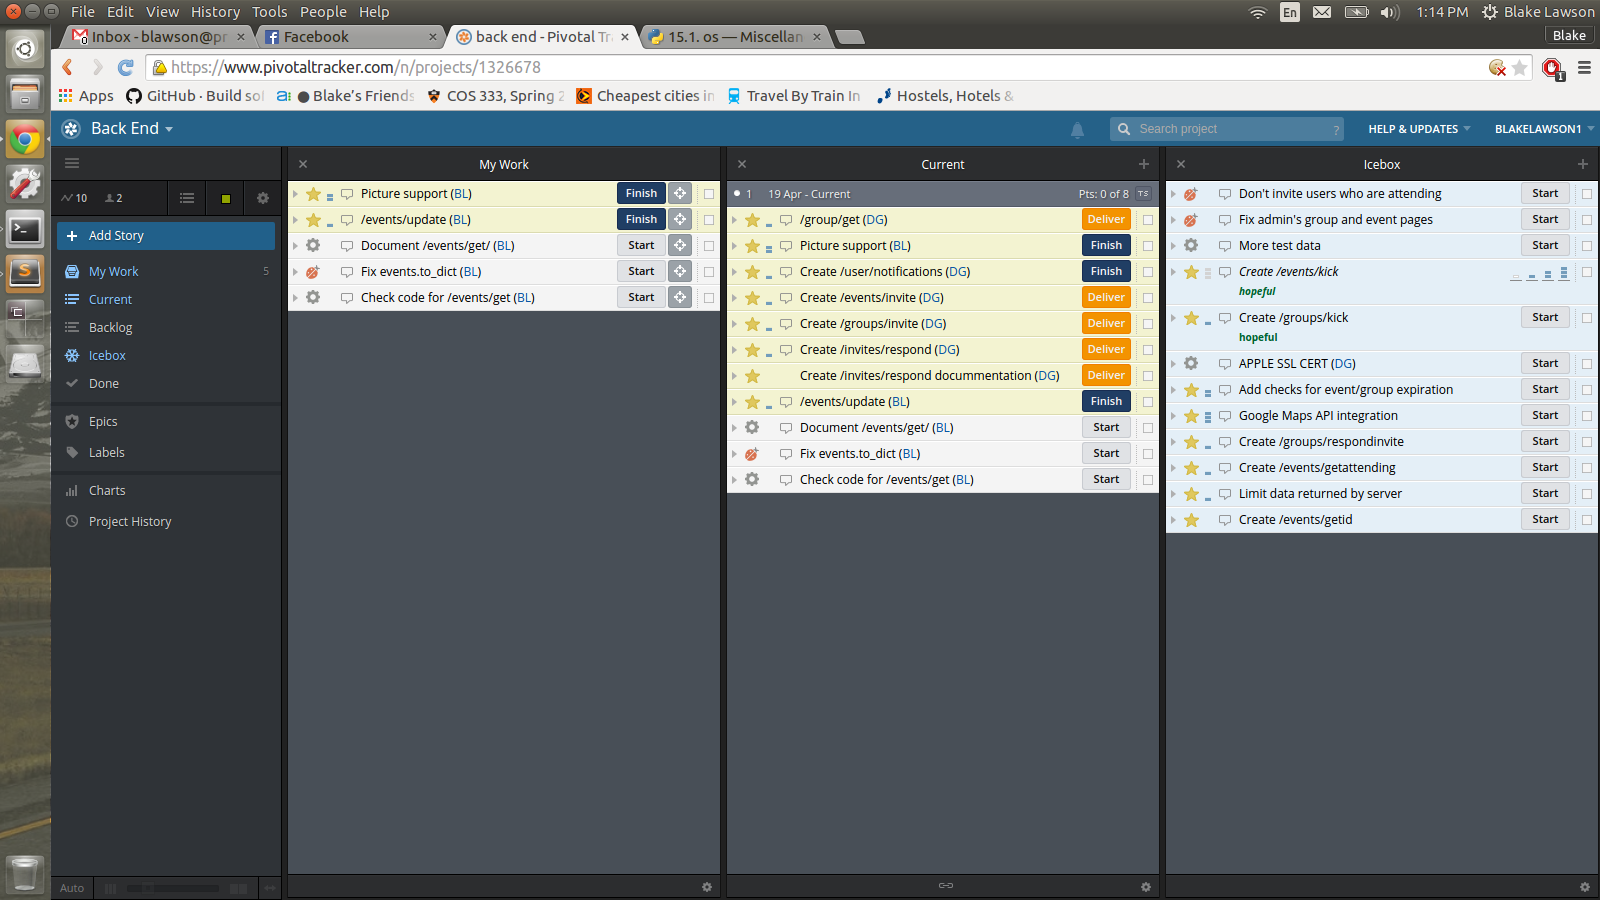
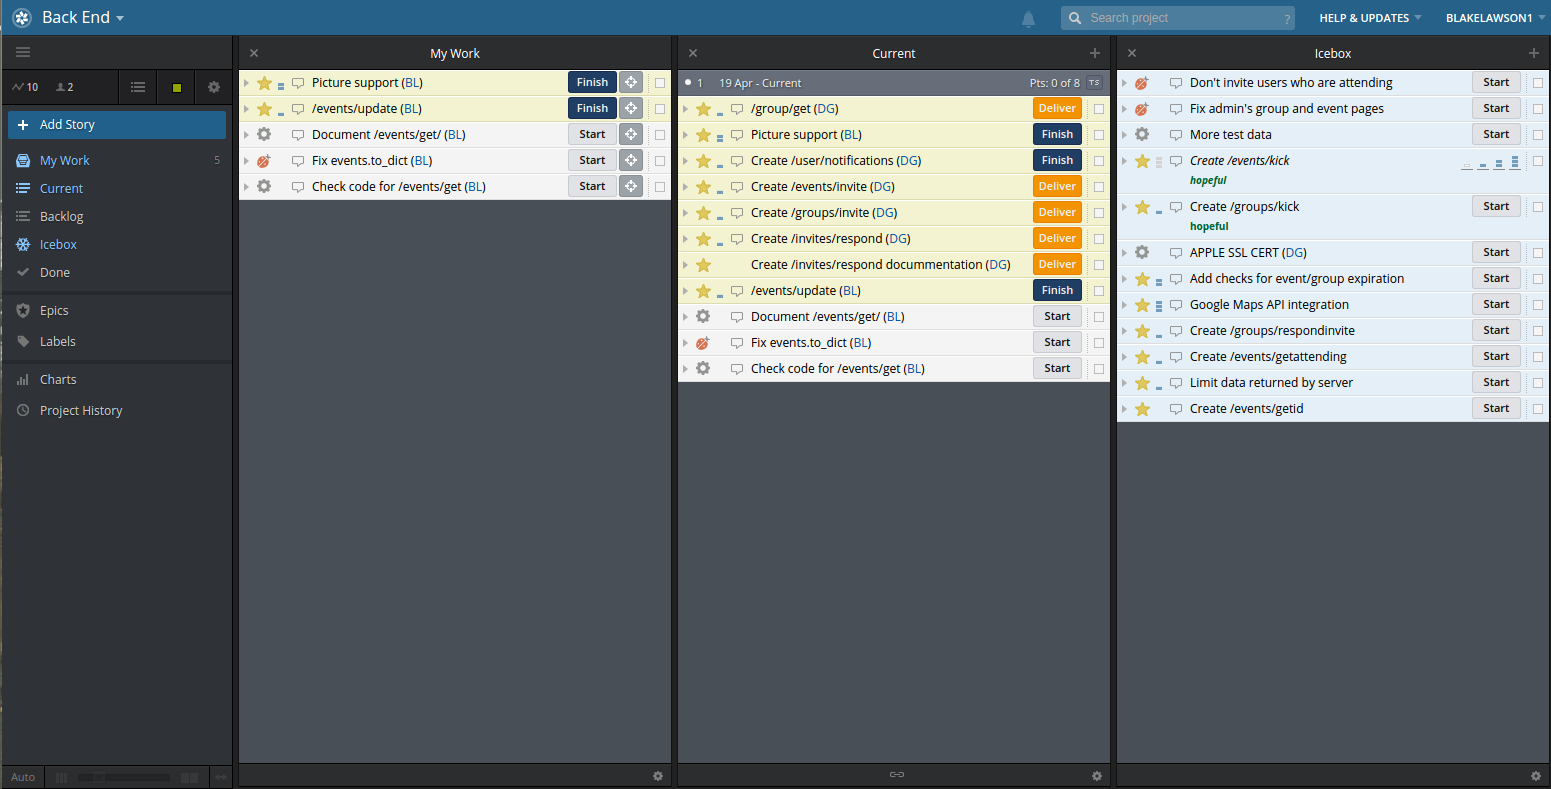
Getting shit done

diff --git a/report.tex b/report.tex
@@ -1,5 +1,7 @@
 \documentclass[12pt]{article}
 
+\usepackage{graphicx}
+
 \setlength{\textheight}{8.5in}
 \setlength{\headheight}{.25in}
 \setlength{\headsep}{.25in}
@@ -74,6 +76,45 @@ A next step would be to implement photo uploads on the front end given that the 
 
 \bigskip
 
+\section{Challenges}
+
+While building the app, there were a lot of problems that we did not anticipate.
+Although we did not find elegant solutions to all of these problems,
+there are a couple that stand out that we are proud of.
+
+\subsection{PivotalTracker (section name?)}
+
+When we started working on our project, we did not have a clear strategy for 
+delegating work or keeping track of the things that needed to be done.
+Initially, we maintained a list of tasks in the Git repository's \texttt{README.md} file,
+but we quickly ran into trouble keeping the document up to date.
+Furthermore, it was often unclear which people were working on each of the tasks in the README.
+There were several occasions in which two people wrote the same function independently
+and did not find out until one of them was confronted with a merge conflict when pulling code.
+After a few weeks into the project, it was clear that we needed a better system.
+
+\begin{figure}
+    \centering
+    \includegraphics[scale=0.3]{pivotaltracker.png}
+    \caption{
+        PivotalTracker revolutionized our work flow. 
+        This is a picture of the back end's PivotalTracker page around week 4.
+    }
+    \label{fig:pivotaltracker}
+\end{figure}
+
+We decided to try a product called PivotalTracker that we found online,
+and we were really happy with the results.
+PivotalTracker allowed us to create ``tickets" for each of the tasks that needed to be done.
+Group members can then claim tickets so everyone else can see that they are working on it.
+Furthermore, PivotalTracker made it really easy to add new tasks as we discovered things that needed to be done.
+In the end, PivotalTracker saved us a lot of time and make communication and planning way easier.
+
+\subsection{Testing}
+
+Most of the testing was done locally. If the app had been ready earlier, we would have used TestFlight to distribute it to real users for beta testing. Nonetheless, we were able to stress test the backend database with 2,000 users from the Drexel University email list.
+
+\bigskip
 \section{What we would have done differently}
 
 If we were to start over, I think we would have chosen a narrower problem to address. From the demos we attended, the most successful ones were those that performed one well-defined task. Though we laid out the target features in our initial design document, there was too much leeway. In addition, we would have picked a technology stack that allowed either the two teams to progress in parallel or one team to help the other in the event of a setback. With their experience in Django and AWS, the backend team was consistently ahead of the front end.
@@ -85,10 +126,6 @@ If we were to start over, I think we would have chosen a narrower problem to add
 For the first three weeks we stayed right on track with our milestone list. We were able to make significant progress at HackPrinceton, which we treated as a feature-thon for PartyUp. Login, register, event creation, and group creation were completed on schedule on both the backend and the frontend. We ran into some difficulty with push notification and group chat. 
 
 \bigskip
-
-\section{Testing}
-
-Most of the testing was done locally. If the app had been ready earlier, we would have used TestFlight to distribute it to real users for beta testing. Nonetheless, we were able to stress test the backend database with 5,000 users from the Drexel University email list.
 
 \section{Group Reflection}
 

diff --git a/internal.tex b/internal.tex
@@ -38,8 +38,12 @@ The iOS code and back end code can be found at
 \url{https://github.com/BDGL-Hacks/iOS-333} and
 \url{https://github.com/BDGL-Hacks/backend-333} respectively.
 
-The front end iOS app interacts with the back end through HTTP requests.
-The iOS client can access the back end API using 
+The front end iOS app interacts with the back end API through HTTP requests.
+The iOS client sends a POST request that indicates which API function to call 
+to the Django application on the AWS instance, and the server returns a JSON object that 
+includes the information requested by the client.
+All of the functions in the PartyUp API are documented on GitHub
+in the \href{https://github.com/BDGL-Hacks/backend-333/wiki}{project wiki},
 
 %%---------------------------------------------------------------------------------------------------
 %% Front End
@@ -99,9 +103,6 @@ Lance talks about iOS group messaging and push notifications here
 At a high level, there are a few major components to the back end:
 an AWS EC2 instance, an AWS S3 bucket, Pusher, and the Apple Push Notification Service (APNS).
 Figure~\ref{fig:stack} contains a graphical representation of the system.
-All of the functions in the PartyUp API are documented on GitHub
-in the \href{https://github.com/BDGL-Hacks/backend-333/wiki}{project wiki},
-and all of the Python code is written according to the PEP-8 Python standard.
 
 \begin{figure}[h]
     \centering
@@ -133,6 +134,8 @@ will install all of the packages at once.
 
 The two directories, \texttt{testdata} and \texttt{partyup} will be covered
 in greater detail below.
+It should noted that all of the Python files included in these directories
+is written to the PEP-8 Python standard.
 
 \subsection{testdata}
 
